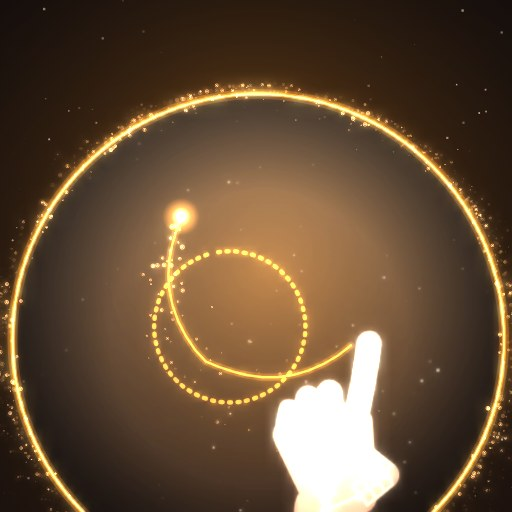
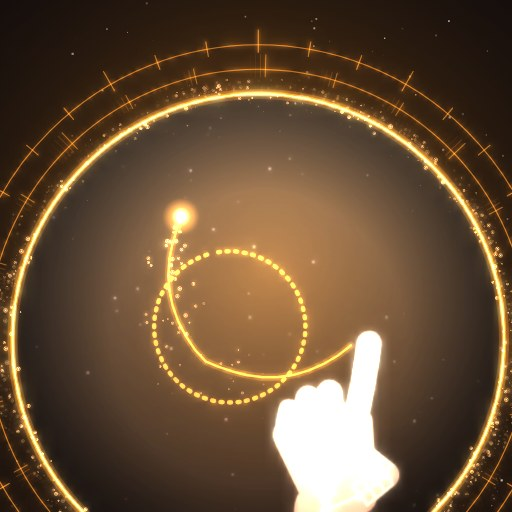
Magic Cam : portail avec anneaux de runes façon Doctor Strange, boutons du studio en colonne de verre, clones plus légers
Claude-Session: https://claude.ai/code/session_015yBfWB9uQ2hWWBeA4S8RoH

diff --git a/magic-cam/js/fx/portal.js b/magic-cam/js/fx/portal.js
@@ -220,6 +220,32 @@ export function portalEffect() {
           ctx.arc(portal.x, portal.y, R, 0, TAU);
           ctx.stroke();
         }
+        // Sorcerer's sigils: two rings of runes turning opposite ways.
+        ctx.save();
+        ctx.translate(portal.x, portal.y);
+        for (const [rr, dir, n] of [
+          [1.1, 1, 24],
+          [1.2, -1, 36],
+        ]) {
+          ctx.rotate(portal.spin * 0.25 * dir);
+          ctx.strokeStyle = `rgba(${scheme.rgb.join(',')},${0.55 * portal.open})`;
+          ctx.lineWidth = 1.5 * e.unit;
+          ctx.beginPath();
+          ctx.arc(0, 0, R * rr, 0, TAU);
+          ctx.stroke();
+          ctx.beginPath();
+          for (let i = 0; i < n; i++) {
+            const a = (i / n) * TAU;
+            const c = Math.cos(a);
+            const sn = Math.sin(a);
+            const r0 = R * (rr - 0.03);
+            const r1 = R * (rr + (i % 3 ? 0.03 : 0.06));
+            ctx.moveTo(c * r0, sn * r0);
+            ctx.lineTo(c * r1, sn * r1);
+          }
+          ctx.stroke();
+        }
+        ctx.restore();
         ctx.globalCompositeOperation = 'source-over';
       }
       // The circle being drawn fills up with sparks, so you see it coming.

diff --git a/magic-cam/css/style.css b/magic-cam/css/style.css
@@ -2272,3 +2272,26 @@ body.is-recording .zoom-bar {
 :root[data-theme='or'] .banner::after {
   display: none;
 }
+
+/* Studio: the side buttons sit in one glass column */
+.studio-side {
+  gap: 6px;
+  padding: 6px;
+  border-radius: 30px;
+  background: rgba(12, 10, 18, 0.38);
+  border: 1px solid rgba(255, 255, 255, 0.1);
+  backdrop-filter: blur(14px);
+  box-shadow: 0 10px 30px rgba(0, 0, 0, 0.35);
+}
+.studio-side .icon-btn {
+  background: transparent;
+  border-color: transparent;
+  backdrop-filter: none;
+}
+.studio-side .icon-btn.on {
+  background: rgba(var(--acc-glow), 0.22);
+  border-color: rgba(var(--acc-glow), 0.6);
+}
+.power-pill {
+  border-color: rgba(var(--acc-glow), 0.5);
+}

diff --git a/magic-cam/js/fx/pack-body.js b/magic-cam/js/fx/pack-body.js
@@ -116,7 +116,8 @@ export function clonesEffect() {
       if (cool <= 0 && count > 0 && L.some((h) => h.events.snap)) set(e, 0);
       shown += clamp(count - shown, -dt * 6, dt * 6);
       // Keep a copy of you every 1/20 s, for 0.7 s.
-      if (e.segActive && e.seg?.present && e.t - lastShot > 0.05) {
+      // Copies are only kept while clones are out or a seal is being made.
+      if ((count > 0 || shown > 0.01 || seal) && e.segActive && e.seg?.present && e.t - lastShot > 0.05) {
         lastShot = e.t;
         const old = history.length && e.t - history[0].t > 0.7 ? history.shift() : null;
         const w = Math.round(e.W / 2);

diff --git a/magic-cam/sw.js b/magic-cam/sw.js
@@ -1,7 +1,7 @@
 // Magic Cam service worker: works offline and keeps the installed app up to
 // date. Every launch fetches the newest files first (cache only as fallback),
 // and a new version of this file takes over immediately.
-const VERSION = 'magic-cam-v56';
+const VERSION = 'magic-cam-v57';
 const LIB = 'magic-cam-lib';
 const POWERS = [
   'free',
